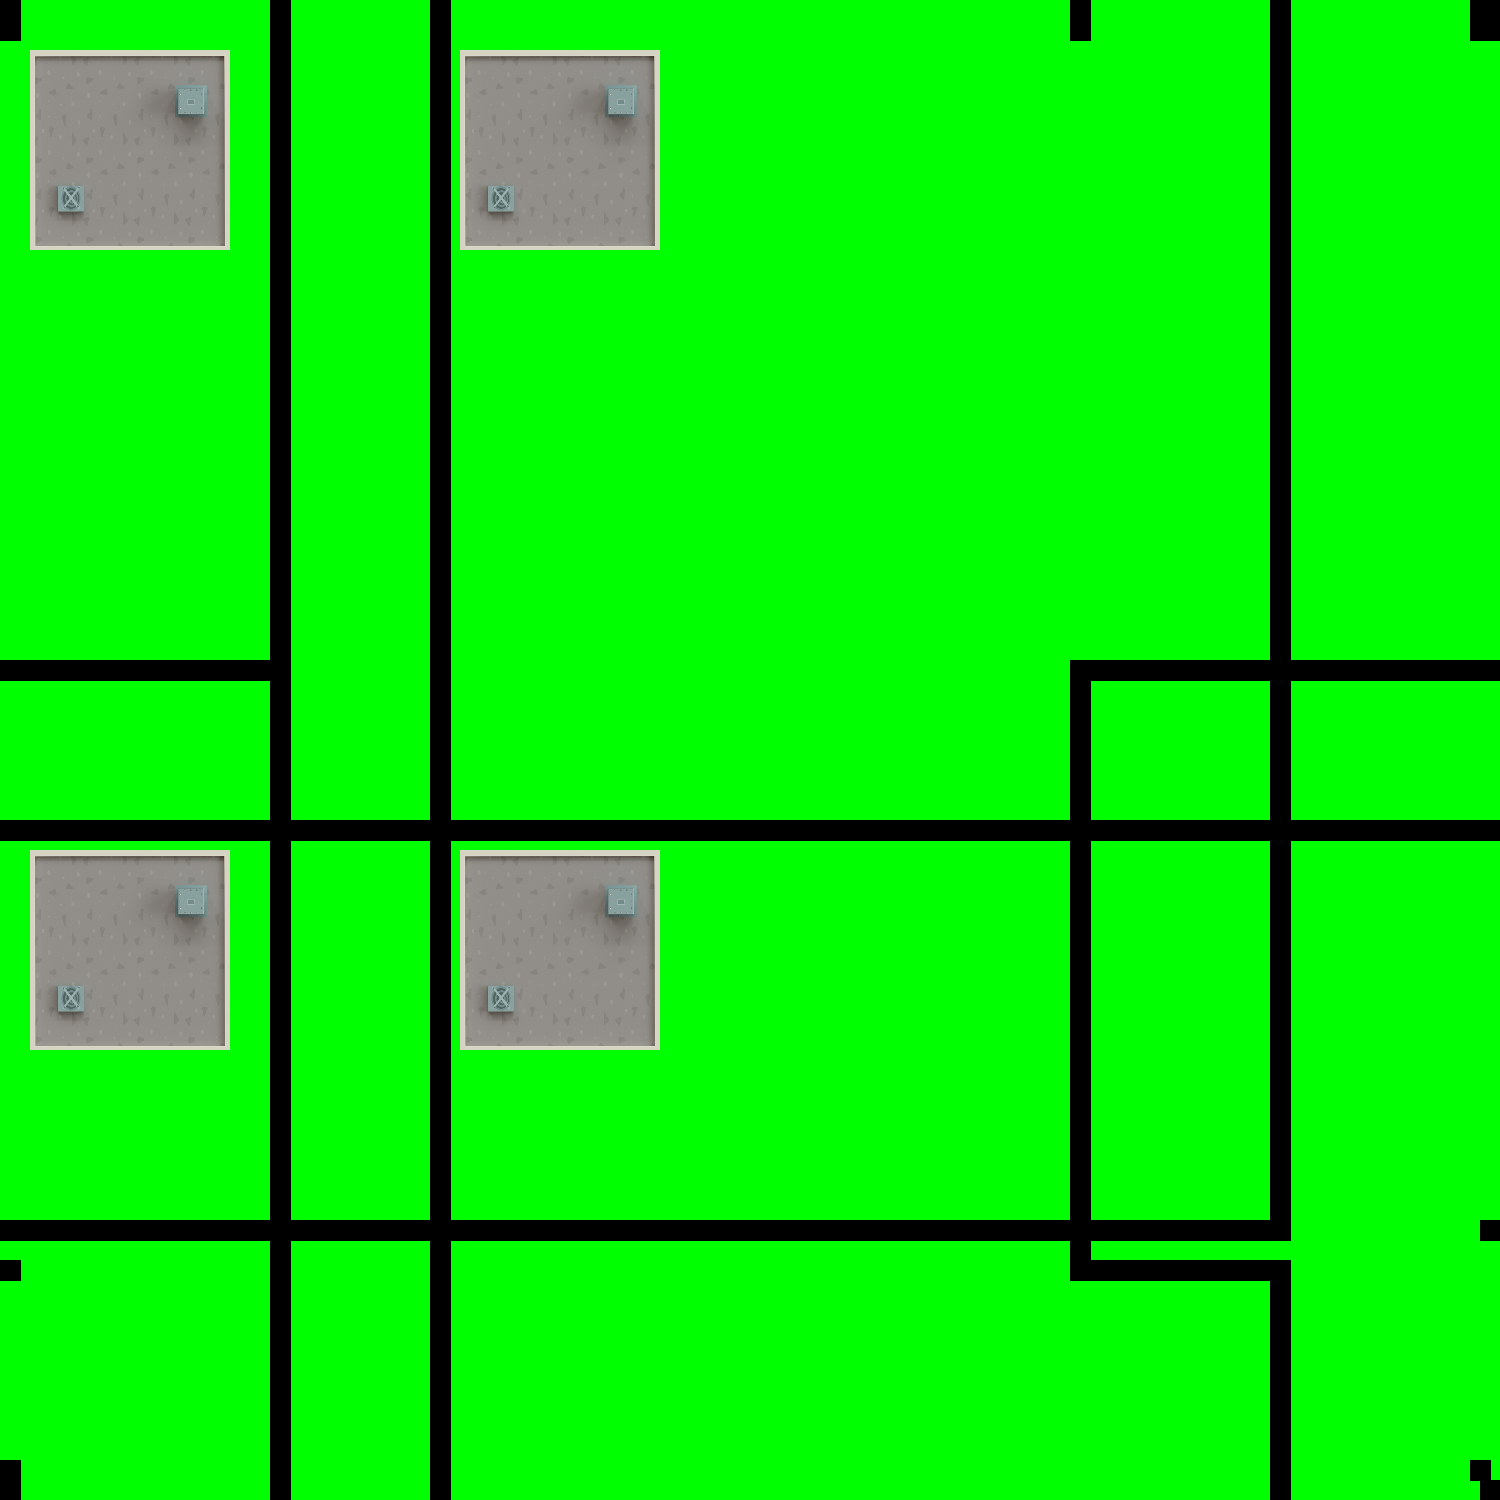
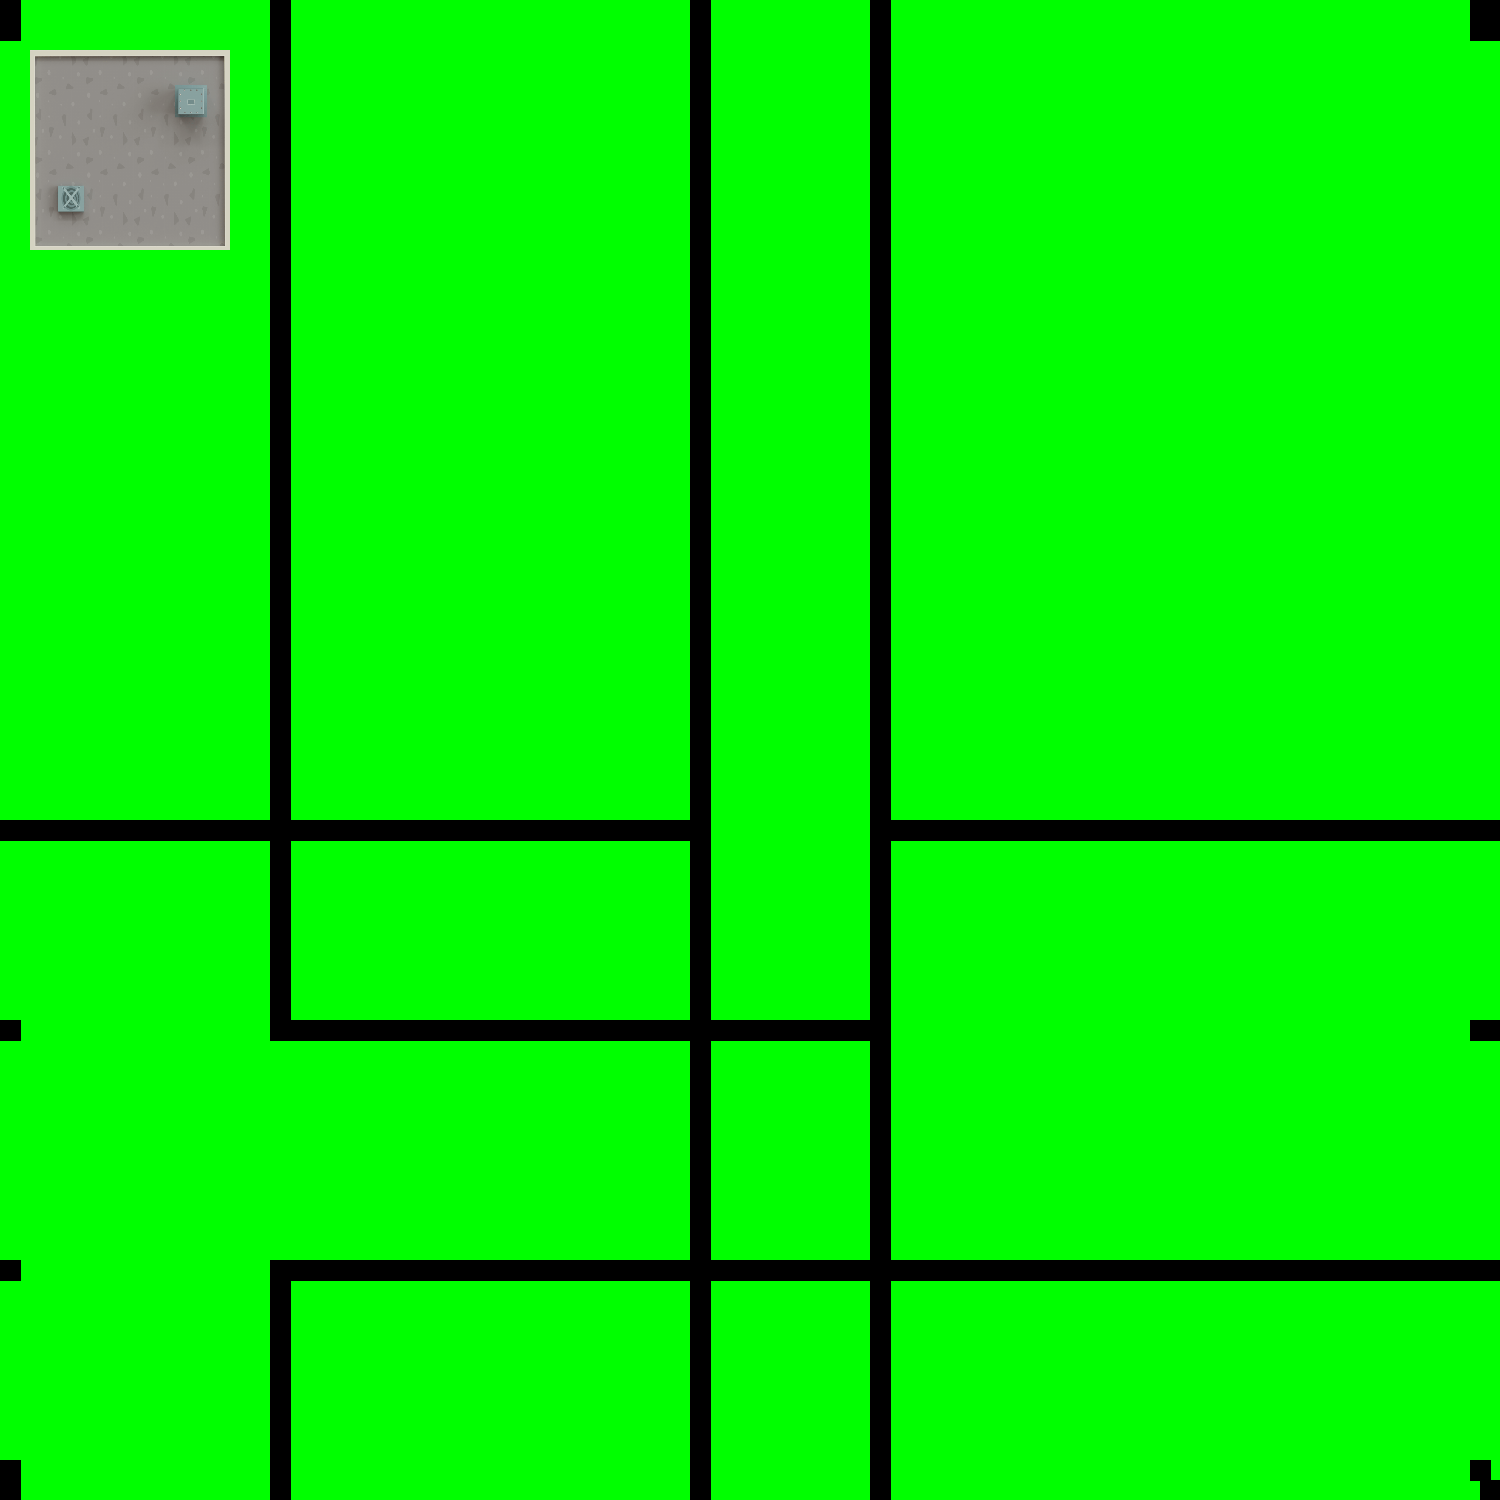
udah bisa ngeletakin bangunan

diff --git a/main.py b/main.py
@@ -1,0 +1,137 @@
+from PIL import Image, ImageDraw
+import random
+
+# Ukuran gambar dan jumlah langkah
+scale = 10
+width = 150 * scale
+height = 150 * scale
+max_count = 10
+
+curve = Image.open("image/curve.png")
+road = Image.open("image/road.png")
+building = Image.open("image/big_building.png")
+house = Image.open("image/house.png")
+buildings = [building,house]
+tree = Image.open("image/tree.png")
+image = Image.new("RGBA", (width, height), color="green")
+images = Image.new("RGBA", (width, height), color="green")
+draw = ImageDraw.Draw(image)
+draws = ImageDraw.Draw(images)
+trees = [tree]
+titikSudut = [(0,0),(width-(2*scale),height-(2*scale)),(0,height-(2*scale)),(width-(2*scale),0)]
+
+direction = ["atas","bawah","kanan","kiri"]
+startPoint = { "atas" : "bawah", "bawah" : "atas", "kanan" : "kiri","kiri" : "kanan"}
+move = { "atas" : [0,2*scale], "bawah" :[0,-2*scale], "kanan" : [2*scale,0],"kiri" : [-2*scale,0]}
+
+
+def makeRoads(x,y,arah,count,length):
+    global width, height
+    w, h = (2*scale, 2*scale) 
+    draw.rectangle( xy = (x,y, x + w , y + h), fill = (0,0,0))
+    if not count :
+        count = max_count
+        if not random.randint(0,3):
+            titikSudut.append((x,y))
+            arah = random.choice(direction[2:] if arah == "atas" or arah == "bawah" else direction[:2])
+    if ( length > 450 and (x<0 or y<0 or x >= width or y >= height) ) or length >= 700:
+        return
+    if (x >= 0 and x < width-2) and (y >= 0 and y < height-2):
+        makeRoads(x+move[arah][0], y+move[arah][1],arah,count-1,length+1)
+    else :
+        titikSudut.append((x%width, y%height))
+        titikSudut.append(((width+x+move[arah][0])%width, (height+y+move[arah][1])%height))
+        makeRoads((width+x+move[arah][0])%width, (height+y+move[arah][1])%height,arah,max_count,length+1)
+    
+
+def render():
+    directions = random.choice(direction)
+    if directions == "atas":
+        x = max_count * random.randint(1,width/max_count)
+        y = 0
+    elif directions == "bawah":
+        x = max_count * random.randint(1,width/max_count)
+        y = height-1
+    elif direction == "kanan":
+        x = 0
+        y = max_count * random.randint(1,height/max_count)
+    else:
+        x = width-1
+        y = max_count * random.randint(1,height/max_count)
+    makeRoads(x,y,directions,max_count,1)
+    
+
+
+def drawArea(x,y,x1,y1,side):
+    padding  = 2*scale
+    x += padding ; y+= padding
+    if x >= x1-scale or y >= y1-scale:
+        return
+    curX,curY = x ,y
+    #draw.rectangle( xy = (x,y, x1-scale ,y1-scale), fill = (255,0,255))
+    
+    gedung = random.choice(buildings)
+    if  gedung.size[0] < (x1-x-scale) and  gedung.size[1] < (y1-y-scale):
+        image.paste(gedung,(x,y))
+    elif (x1-x) > tree.size[0] and (y1-y) > tree.size[1] :
+        gedung = random.choice(trees)
+        image.paste(gedung,(x,y))
+    while (curX + gedung.size[0] + padding) < x1 and side:
+        size = gedung.size[0] + scale
+        if y+building.size[0]-padding < y1:
+            drawArea(curX+size,y-padding,x1,y+building.size[0]-padding,False)
+        curX += size + scale
+    while (curY + gedung.size[1] + padding) < y1 and side:
+        size = gedung.size[1] + scale
+        if x+building.size[1]-padding < x1:
+            drawArea(x-padding,curY+size,x+building.size[1]-padding,y1,False)
+        curY += size + scale
+    
+    if (x+gedung.size[0]-padding+scale)<x1 and (y+gedung.size[1]-padding+scale) < y1 and not side:
+        drawArea(x+gedung.size[0],y+gedung.size[1],x1,y1,True)
+
+def search():
+    for idx, ver in enumerate(titikSudut):
+        minX  = 0
+        nearX = width
+        nearY = height
+        minY = 0
+        maxX = 0
+        maxY = 0
+        for i in range(0,len(titikSudut)):
+            if i == idx :
+               continue
+            if titikSudut[i][0] > ver[0] and titikSudut[i][0]  < nearX:
+                nearX = titikSudut[i][0]
+            if titikSudut[i][1] > ver[1] and titikSudut[i][1]  < nearY:
+                nearY = titikSudut[i][1]
+            if titikSudut[i][0] >= minX and titikSudut[i][0] < ver[0]:
+               minX = titikSudut[i][0]
+               maxY = titikSudut[i][1]
+            if titikSudut[i][1] >= minY and titikSudut[i][1] < ver[1]:
+               minY = titikSudut[i][1]
+               maxX = titikSudut[i][0]
+        if minX > 0 and minY > 0:
+            print("jumpa")
+            if (minX,minY) not in titikSudut:
+                titikSudut.append((minX,minY)) 
+            if (maxX,maxY) not in titikSudut:
+                titikSudut.append((maxX,maxY))
+            print(ver, minX,minY)
+            drawArea(minX+scale,minY+scale,ver[0],ver[1],True)
+        if (nearX,nearY) not in titikSudut:
+            titikSudut.append((nearX,nearY))
+        if minX == 0 or minY == 0:
+            drawArea(minX,minY,ver[0],ver[1],True)
+
+render()
+tmp = titikSudut
+
+search()
+print(titikSudut)
+print(len(titikSudut))
+for ver in titikSudut:
+    draws.rectangle(xy = (ver[0],ver[1],ver[0]+(2*scale),ver[1]+(2*scale)),fill=(0,0,0))
+# Menyimpan gambar sebagai file
+image.show()
+image.save("main.png")
